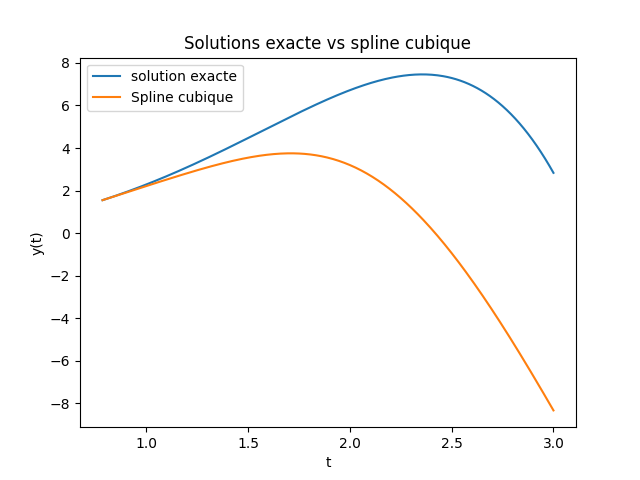
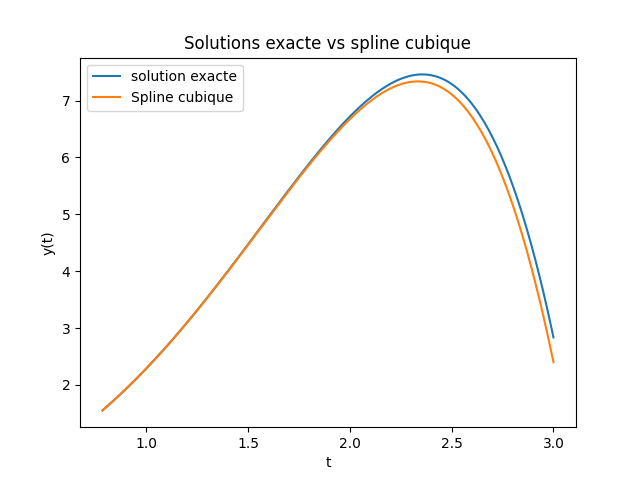
c) final version

diff --git a/main.py b/main.py
@@ -6,9 +6,10 @@ import math
 
 # c)
 def f(t, y, dy):
-    return 2*np.exp(-t)*np.sin(t)*y*dy - 2*np.exp(t)*np.sin(t)
+    return 2*np.exp(-t)/np.sin(t)*y*dy - 2*np.exp(t)*np.sin(t)
 
 coef = splines_edo_implicite(np.sqrt(2)/2 * np.exp(np.pi/4), np.sqrt(2) * np.exp(np.pi/4), f, np.pi/4, 3, 16)
+
 
 # spline
 def S(t):
@@ -18,13 +19,13 @@ def S(t):
     return a*t**3 + b*t**2 + c*t + d
 
 # on crée les intervalles de valeurs:
-t = np.linspace(np.pi/4, 3, 16*20) #20 points en plus par intervalle pour la clarté
-S_pasfonction = np.array([S(t) for t in t]) # on "sincronise" S et t 
-y_exacte = np.exp(t)*np.sin(t)
+t_int = np.linspace(np.pi/4, 3, 16*20) #20 points en plus par intervalle pour la clarté
+S_pasfonction = np.array([S(t) for t in t_int]) # on "sincronise" S et t 
+y_exacte = np.exp(t_int)*np.sin(t_int)
 
 plt.figure()
-plt.plot(t, y_exacte, label = "solution exacte")
-plt.plot(t, S_pasfonction, label = "Spline cubique")
+plt.plot(t_int, y_exacte, label = "solution exacte")
+plt.plot(t_int, S_pasfonction, label = "Spline cubique")
 plt.legend()
 plt.title('Solutions exacte vs spline cubique')
 plt.xlabel("t")
